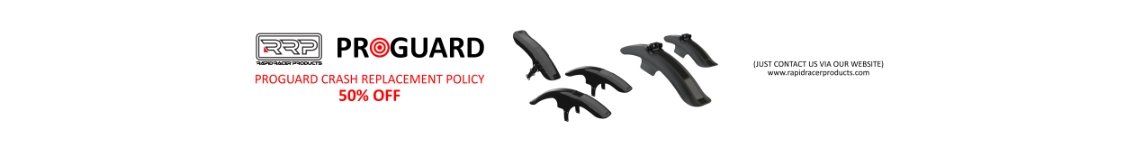
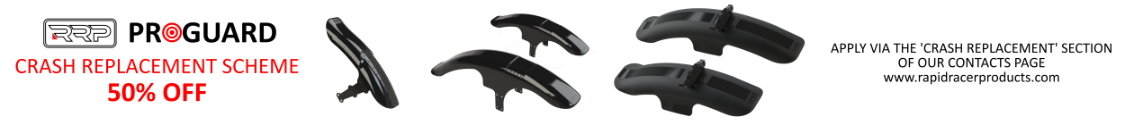
Updates to crash replacement and added new company for Sweden

Changed region(s): [[0.0, 0.0484, 0.9956, 0.9435], [0.0933, 0.6532, 0.1867, 0.8226], [0.7778, 0.5806, 0.9644, 0.6774]]

diff --git a/src/styles/g-components/global/_vorova.scss b/src/styles/g-components/global/_vorova.scss
@@ -4,7 +4,6 @@
 
 .c-vorova {
   display: block;
-  margin-bottom: $rhythm;
 
   &__img {
     width: 100%;
